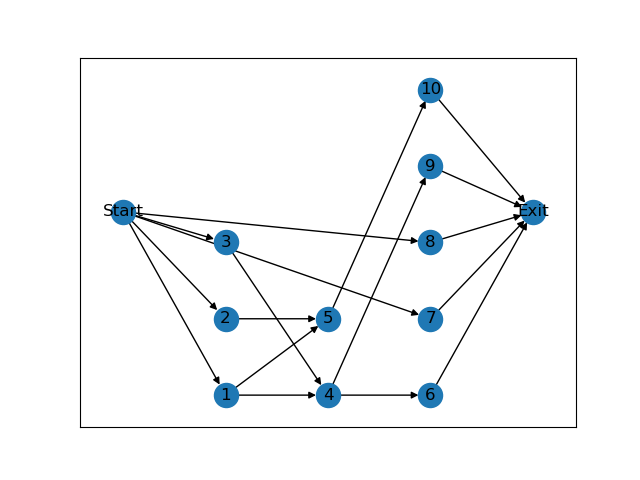
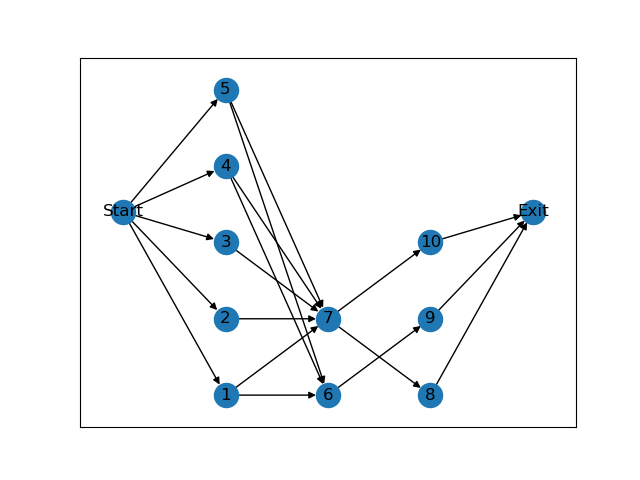
更新了一些功能函数和注释
更新了一些功能函数和注释，支撑后面云环境gym搭建。

diff --git a/functions.py b/functions.py
@@ -1,12 +1,24 @@
+from networkx.algorithms import dominating
 from DAGs_Generator import workflows_generator
+import networkx as nx
+
+M = 5
 
 # edges,duration,demand = workflows_generator('default')
-
-edges = [(1, 5), (1, 4), (2, 5), (3, 4), (4, 9), (4, 6), (5, 10), ('Start', 1), ('Start', 2), ('Start', 3), ('Start', 7), ('Start', 8), (6, 'Exit'), (7, 'Exit'), (8, 'Exit'), (9, 'Exit'), (10, 'Exit')]
+edges = [(1, 7), (1, 6), (2, 7), (3, 7), (4, 6), (4, 7), (5, 6), (5, 7), (6, 9), (7, 8), (7, 10), ('Start', 1), ('Start', 2), ('Start', 3), ('Start', 4), ('Start', 5), (8, 'Exit'), (9, 'Exit'), (10, 'Exit')]
+duration = [12.093872682578908, 19.220424108680735, 29.805698906159055, 22.722194353509664, 26.101160966227223, 22.935788547458667, 26.351666691590356, 15.039301662808857, 21.44768962005825, 21.55420388678772]
+demand = [(30.757662513101025, 3.167983697298989), (3.1492983091761593, 37.41426693020626), (2.363107815153717, 34.19981368748465), (31.23791132822727, 2.1912999829977053), (4.5450154830068, 37.995899321938474), (37.350404493621696, 4.577078218529003), (40.56363387729358, 2.9232817576682493), (2.940579646707287, 48.48645463208979), (47.90208901784828, 3.4026323412020227), (38.853838716347894, 4.3424621230597555)]
 ready_list = []
+available_list = []*M
 done_job = []
-#寻找前继节点
+
 def search_for_predecessor(node,edges):
+    '''
+    寻找前继节点
+    :param node: 需要查找的节点id
+    :param edges: DAG边信息
+    :return: node的前继节点id列表
+    '''
     map = {}
     if node == 'Start': return print("error, 'Start' node do not have predecessor!")
     for i in range(len(edges)):
@@ -17,8 +29,14 @@ def search_for_predecessor(node,edges):
     succ = map[node]
     return succ
 
-#寻找后续节点
+
 def search_for_successors(node,edges):
+    '''
+    寻找后续节点
+    :param node: 需要查找的节点id
+    :param edges: DAG边信息(注意最好传列表的值（edges[:]）进去而不是传列表的地址（edges）！！！！)
+    :return: node的后续节点id列表
+    '''
     map = {}
     if node == 'Exit': return print("error, 'Exit' node do not have successors!")
     for i in range(len(edges)):
@@ -30,6 +48,13 @@ def search_for_successors(node,edges):
     return pred
 
 def update_ready_list(ready_list,done_job,edges):
+    '''
+    根据已完成的任务更新当前可以执行的task列表，满足DAG的依赖关系。并不表明它可以被执行，因为还要受资源使用情况限制
+    :param ready_list: 上一时刻可用task列表
+    :param done_job: DAG中已完成的任务id列表
+    :para edges: DAG边信息(注意最好传列表的值（edges[:]）进去而不是传列表的地址（edges）！！！！)
+    :return: 更新完成后的task列表
+    '''
     all_succ = []
     preds = []
     if ready_list:
@@ -46,4 +71,18 @@ def update_ready_list(ready_list,done_job,edges):
         if job in ready_list: ready_list.remove(job)
     return sorted(set(ready_list), key = ready_list.index)
 
-print(search_for_successors('Exit',edges))
+def find_b_level(edges,done_job):
+    '''
+    计算当前未完成DAG的b-level（longest path) 不包括 Start 和 Exit节点
+    :para edges: DAG边信息(注意最好传列表的值（edges[:]）进去而不是传列表的地址（edges）！！！！)
+    :param done_job: DAG中已完成的任务id列表 注意done_job是所有任务id的子集
+    :return: 更新完成后的task列表
+    '''
+    for i in range(len(done_job)):
+        preds = search_for_predecessor(done_job[i],edges)
+        for j in preds: edges.pop(edges.index((j,done_job[i])))
+    g1 = nx.DiGraph()
+    g1.add_edges_from(edges)
+    b_level_road = nx.dag_longest_path(g1)
+    return b_level_road[1:-1]
+

diff --git a/DAGs_Generator.py b/DAGs_Generator.py
@@ -114,6 +114,15 @@ def plot_DAG(edges,postion):
     return plt.clf
 
 def workflows_generator(mode = 'default', n = 10, max_out = 2,alpha = 1,beta = 1.0, t_unit = 10, resource_unit = 100):
+    '''
+    随机生成一个DAG任务并随机分配它的持续时间和（CPU，Memory）的需求
+    :param mode: DAG按默认参数生成
+    :param n: DAG中任务数
+    :para max_out: DAG节点最大子节点数
+    :return: edges      DAG边信息
+             duration   DAG节点持续时间
+             demand     DAG节点资源需求数量
+    '''
     t = t_unit  #s   time unit
     r = resource_unit #resource unit
     edges,in_degree,out_degree,position = DAGs_generate(mode,n,max_out,alpha,beta)
